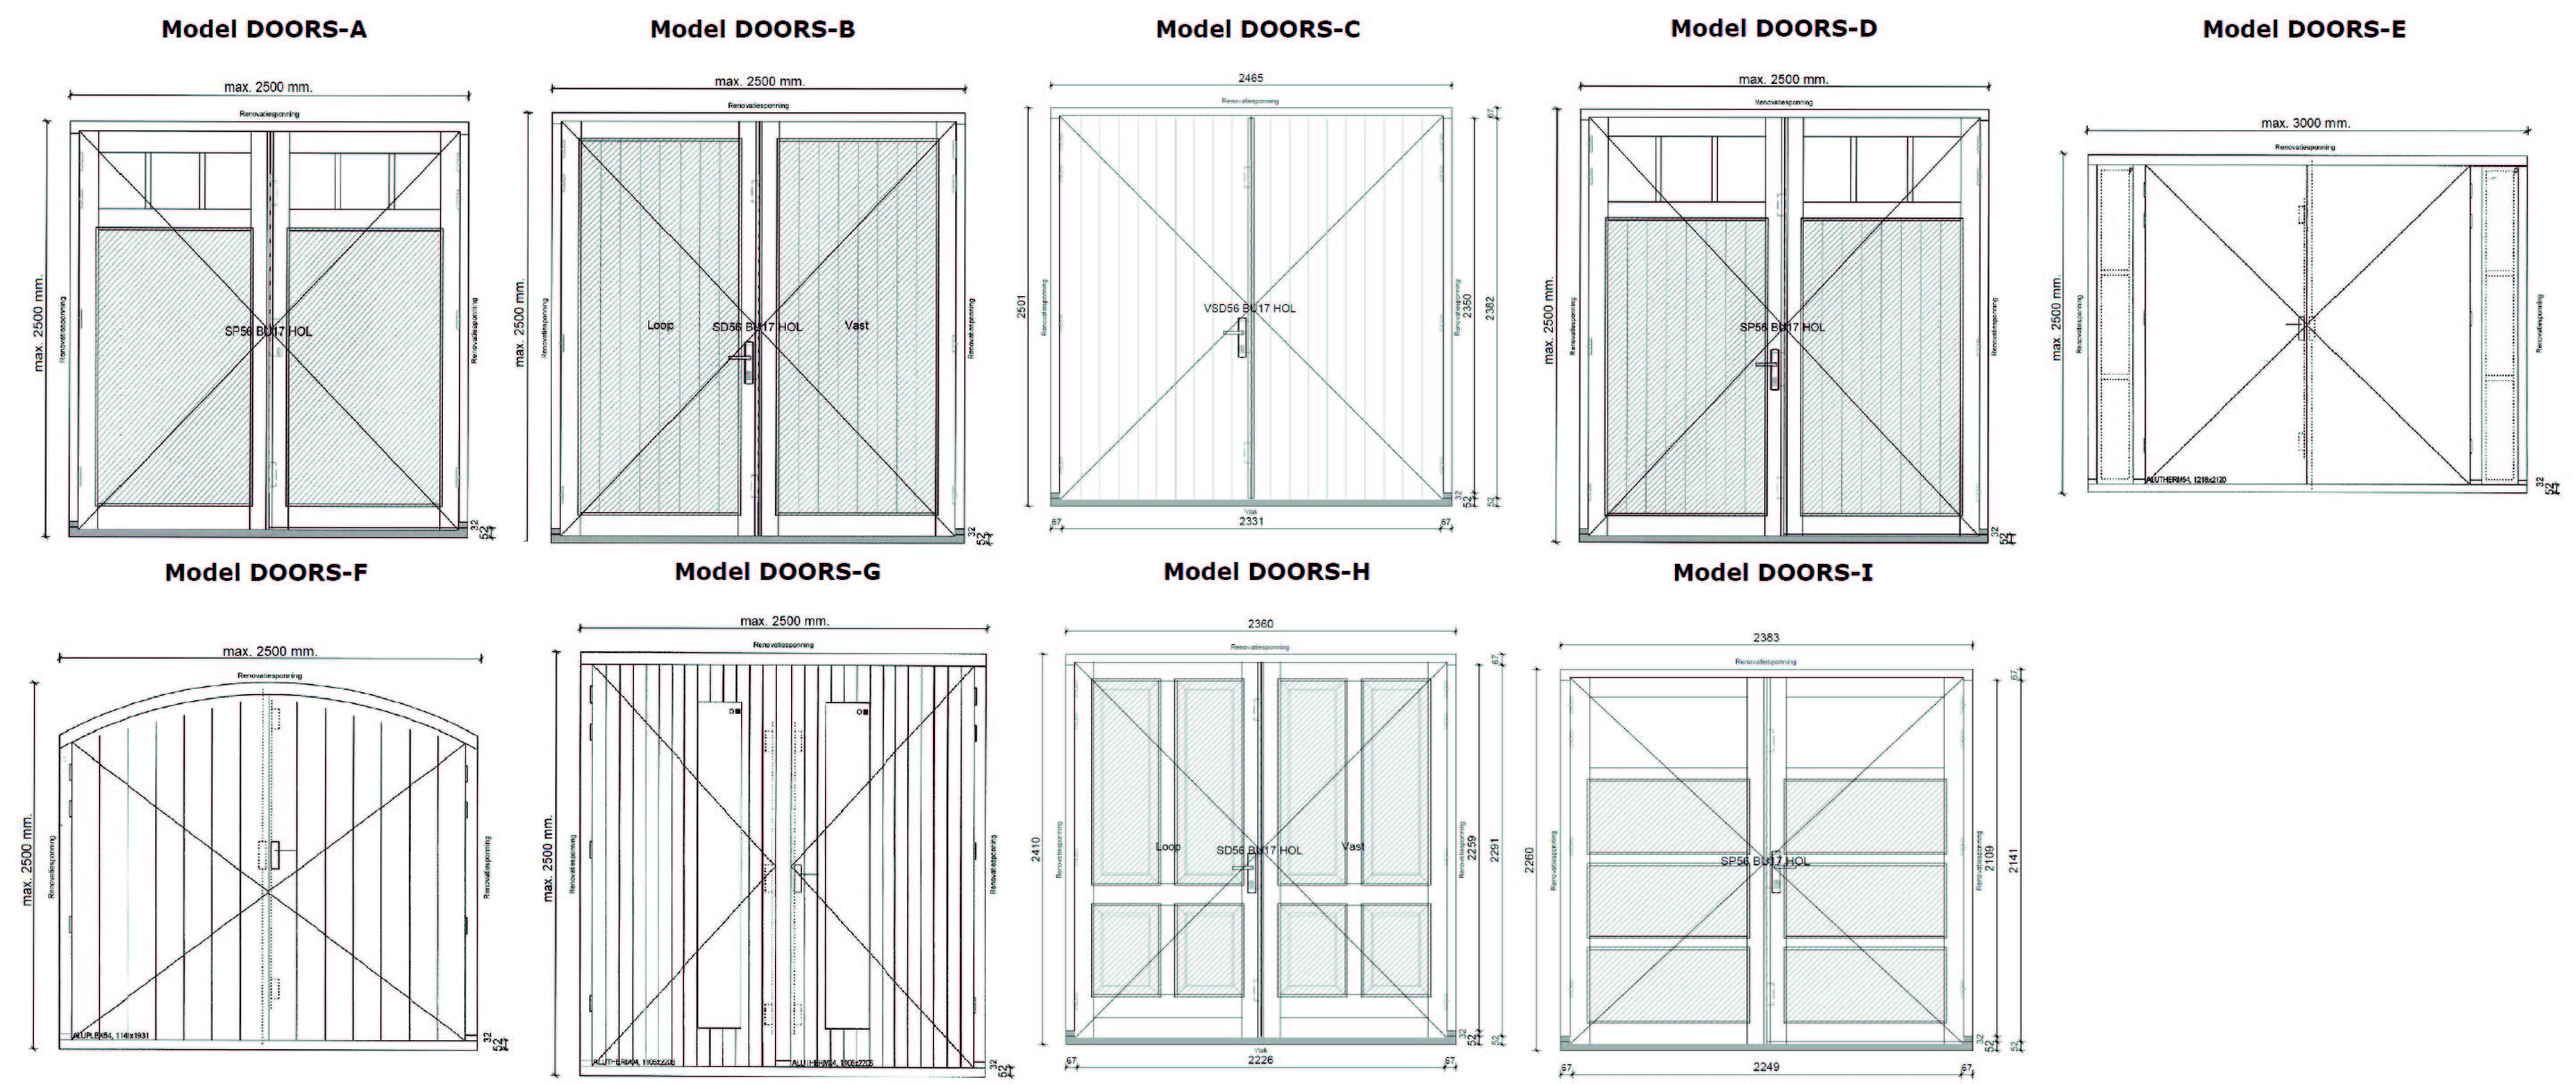
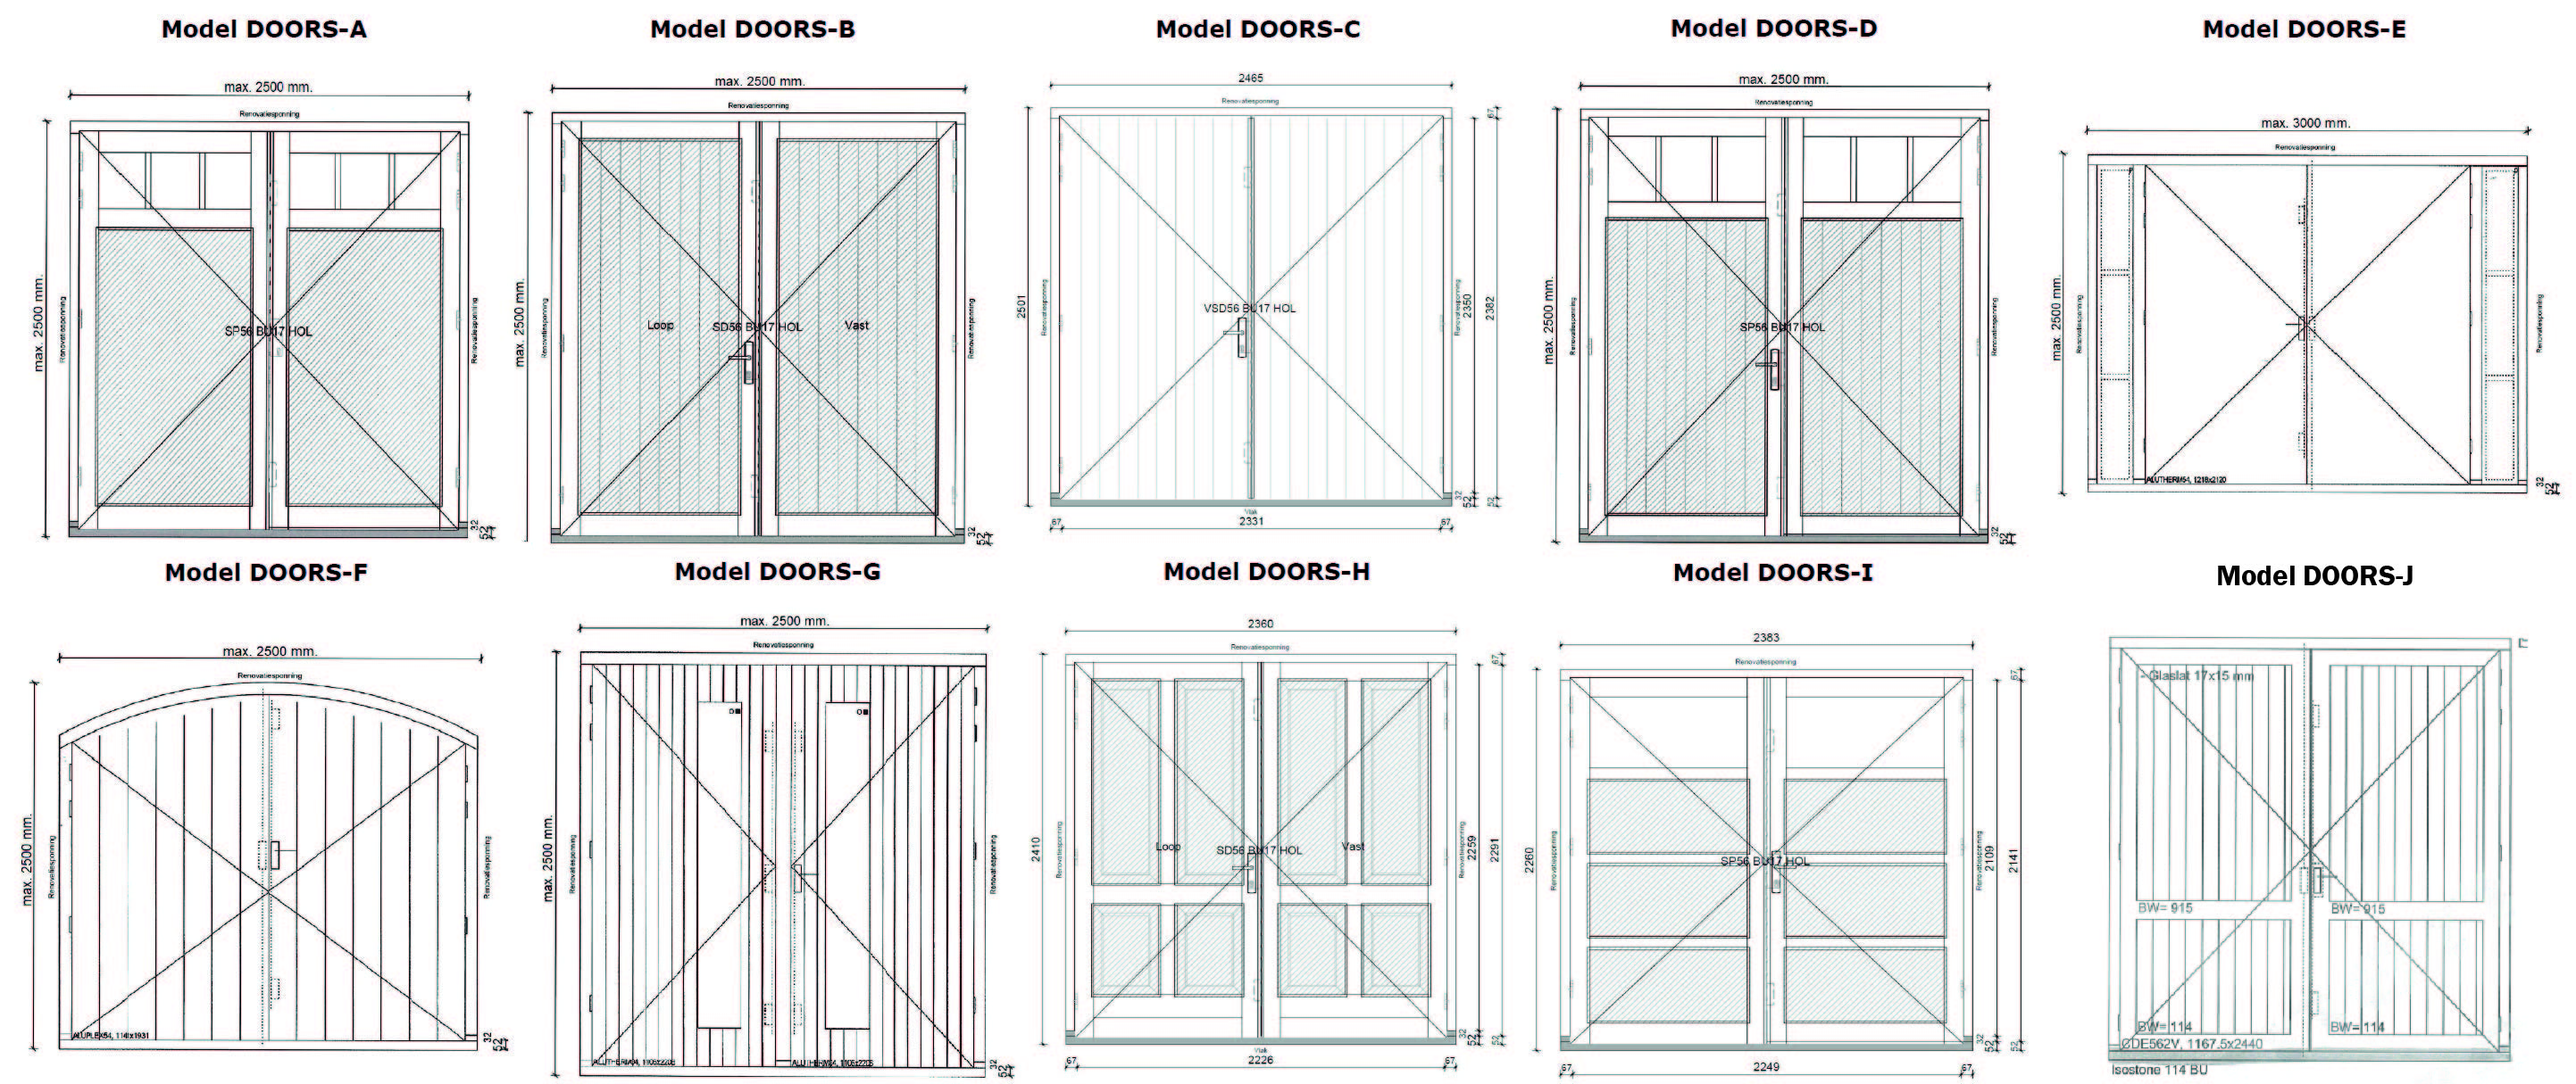
add model J

Changed region(s): [[0.8111, 0.5786, 0.9983, 1.0], [0.8423, 0.5177, 0.9359, 0.5481]]

diff --git a/src/app/_pages/verkoop/forms/form/forms/odhd.ts b/src/app/_pages/verkoop/forms/form/forms/odhd.ts
@@ -215,6 +215,7 @@ export const algemeen: QuestionBase<string>[] = [
       {value: 'G', article: 'ODH007'},
       {value: 'H', article: 'ODH008'},
       {value: 'I', article: 'ODH009'},
+      {value: 'J', article: 'ODH010'},
       {value: 'Overig'},
     ],
     validators: [Validators.required]
@@ -290,20 +291,27 @@ export const buitenzijde: QuestionBase<string>[] = [
       {value: '7016'},
       {value: '9005'},
       {value: '6009'}
+    ],
+    dependent: [
+      {
+        field: 'model',
+        values: ['D', 'E', 'F', 'G']
+      }
     ]
   }),
   new RadioQuestion({
-    label: 'Staat de deur op het zuiden',
-    key: 'deur_op_zuiden',
+    label: 'Kleuropties deur binnen- en buitenzijde (Tweemaal gegrond)',
+    key: 'deur_ral',
     options: [
-      {value: 'Ja (IROKO hout toepassen)', article: 'ODH203'},
-      {value: 'Nee'}
+      {value: '9010'},
+      {value: '7016', article: 'ODH203'},
+      {value: '9005', article: 'ODH203'},
+      {value: '6009', article: 'ODH203'}
     ],
     dependent: [
-      {field: 'deur_ral', values: ['7016', '9005', '6009']},
       {
         field: 'model',
-        values: ['A', 'B', 'C', 'H', 'I']
+        values: ['A', 'B', 'C', 'H', 'I', 'J']
       }
     ]
   }),
@@ -317,21 +325,6 @@ export const buitenzijde: QuestionBase<string>[] = [
       {value: '6009'}
     ]
   }),
-  // new TextQuestion({
-  //   label: 'Kleuropties (Tweemaal gegrond)',
-  //   fields: [
-  //     {
-  //       key: 'deur_ral',
-  //       label: 'Deur RAL',
-  //       type: 'text'
-  //     },
-  //     {
-  //       key: 'kozijn_ral',
-  //       label: 'Kozijn RAL',
-  //       type: 'text'
-  //     }
-  //   ]
-  // }),
   new RadioQuestion({
     key: 'aflakken',
     label: 'Deur afgelakt leveren in gekozen kleur',
@@ -343,7 +336,7 @@ export const buitenzijde: QuestionBase<string>[] = [
     dependent: [
       {
         field: 'model',
-        values: ['A', 'B', 'C', 'D', 'F', 'G', 'H', 'I', 'Overig']
+        values: ['A', 'B', 'C', 'D', 'F', 'G', 'H', 'I', 'J', 'Overig']
       }
     ]
   }),
@@ -436,7 +429,7 @@ export const glas: QuestionBase<string>[] = [
     dependent: [
       {
         field: 'model',
-        values: ['B', 'C', 'F', 'H']
+        values: ['B', 'C', 'F', 'H', 'J']
       }
     ]
   }),
